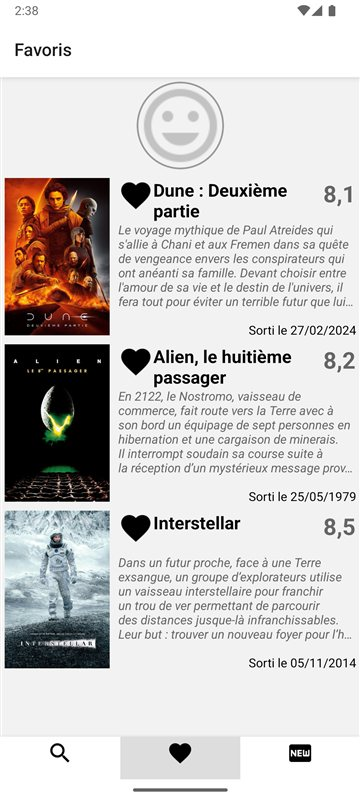
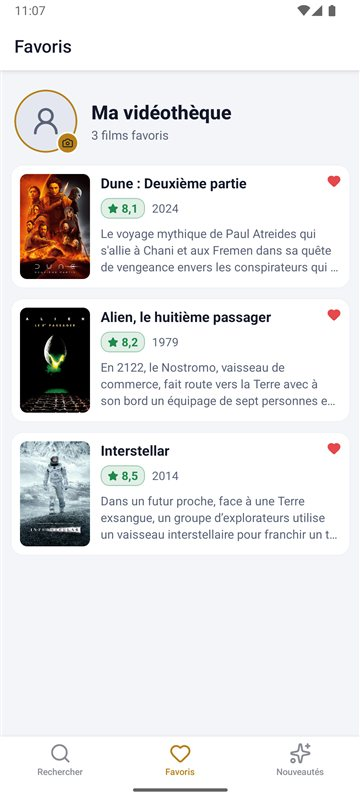
README : captures du nouveau design et du mode sombre

diff --git a/README.md b/README.md
@@ -8,24 +8,30 @@ Application mobile React Native pour rechercher des films, consulter leur fiche 
   <img src="docs/screenshots/favoris.jpg" width="200" alt="Films favoris" />
   <img src="docs/screenshots/nouveautes.jpg" width="200" alt="Nouveautés" />
 </p>
+<p align="center">
+  <img src="docs/screenshots/sombre-fiche.jpg" width="200" alt="Fiche d'un film en mode sombre" />
+  <img src="docs/screenshots/sombre-favoris.jpg" width="200" alt="Favoris en mode sombre" />
+</p>
 
 ## Fonctionnalités
 
-- **Recherche** de films par titre, avec chargement des résultats au fil du défilement
-- **Fiche détaillée** : image, résumé, date de sortie, note, nombre de votes, budget, genres et sociétés de production
-- **Favoris** ajoutés depuis la fiche et conservés d'un lancement à l'autre
-- **Nouveautés** : les sorties les plus récentes parmi les films ayant reçu au moins 1 000 votes
-- **Partage** d'un film vers une autre application
-- **Avatar** personnalisable à partir d'une photo de la galerie
-- **Cas limites gérés** : absence de connexion (message et bouton Réessayer), recherche sans résultat, affiche ou résumé manquant
+- **Recherche en direct** : les résultats s'affichent pendant la frappe et se chargent au fil du défilement
+- **Fiche détaillée** : image de fond, affiche, note, durée, genres, synopsis, budget, recettes et production
+- **Favoris** ajoutés depuis la fiche, conservés d'un lancement à l'autre, dans une vidéothèque avec photo de profil
+- **Nouveautés** : les sorties les plus récentes parmi les films ayant reçu au moins 1 000 votes, à rafraîchir en tirant la liste vers le bas
+- **Partage** d'un film vers une autre application, avec son lien TMDB
+- **Thème clair et sombre**, qui suit le réglage du téléphone
+- **États soignés** : blocs de chargement animés, absence de connexion (message et bouton Réessayer), recherche sans résultat, affiche ou résumé manquant
 
 ## Stack technique
 
 | Domaine | Choix |
 |---|---|
 | Framework | React Native 0.83 (New Architecture, Hermes) |
-| Navigation | React Navigation 7 : onglets et piles d'écrans |
-| État | Redux, persisté avec redux-persist et AsyncStorage |
+| Interface | Composants fonction et hooks, thèmes clair et sombre, icônes Lucide (react-native-svg) |
+| Animations | Reanimated 4 |
+| Navigation | React Navigation 7 : onglets et piles d'écrans natives |
+| État | Redux (hooks react-redux), persisté avec redux-persist et AsyncStorage |
 | Données | API REST de TMDB |
 | Tests | Jest et react-test-renderer |
 | Autres | react-native-bootsplash (écran de démarrage), react-native-image-picker, moment |
@@ -48,17 +54,18 @@ L'application a été testée sur Android (émulateur Android 15). La version iO
 npm test
 ```
 
-Les tests couvrent le démarrage de l'application, la mise en forme des données (dates, notes, budgets) et le reducer des favoris.
+Les tests couvrent le démarrage de l'application, la mise en forme des données (dates, durées, notes, montants), la pagination sans doublons et le reducer des favoris.
 
 ## Structure du projet
 
 ```
 API/          appels à l'API TMDB
-Animations/   animations de la liste et du bouton favori
-components/   écrans et composants : recherche, fiche, favoris, nouveautés…
+components/   écrans et composants : recherche, fiche, favoris, nouveautés, cartes, états vides…
 Helpers/      mise en forme des données
+Hooks/        usePaginatedFilms : listes paginées, erreurs et rafraîchissement
 Navigation/   onglets et piles d'écrans
 Store/        store Redux et reducers
+Theme/        thèmes clair et sombre
 __tests__/    tests Jest
 ```
 
